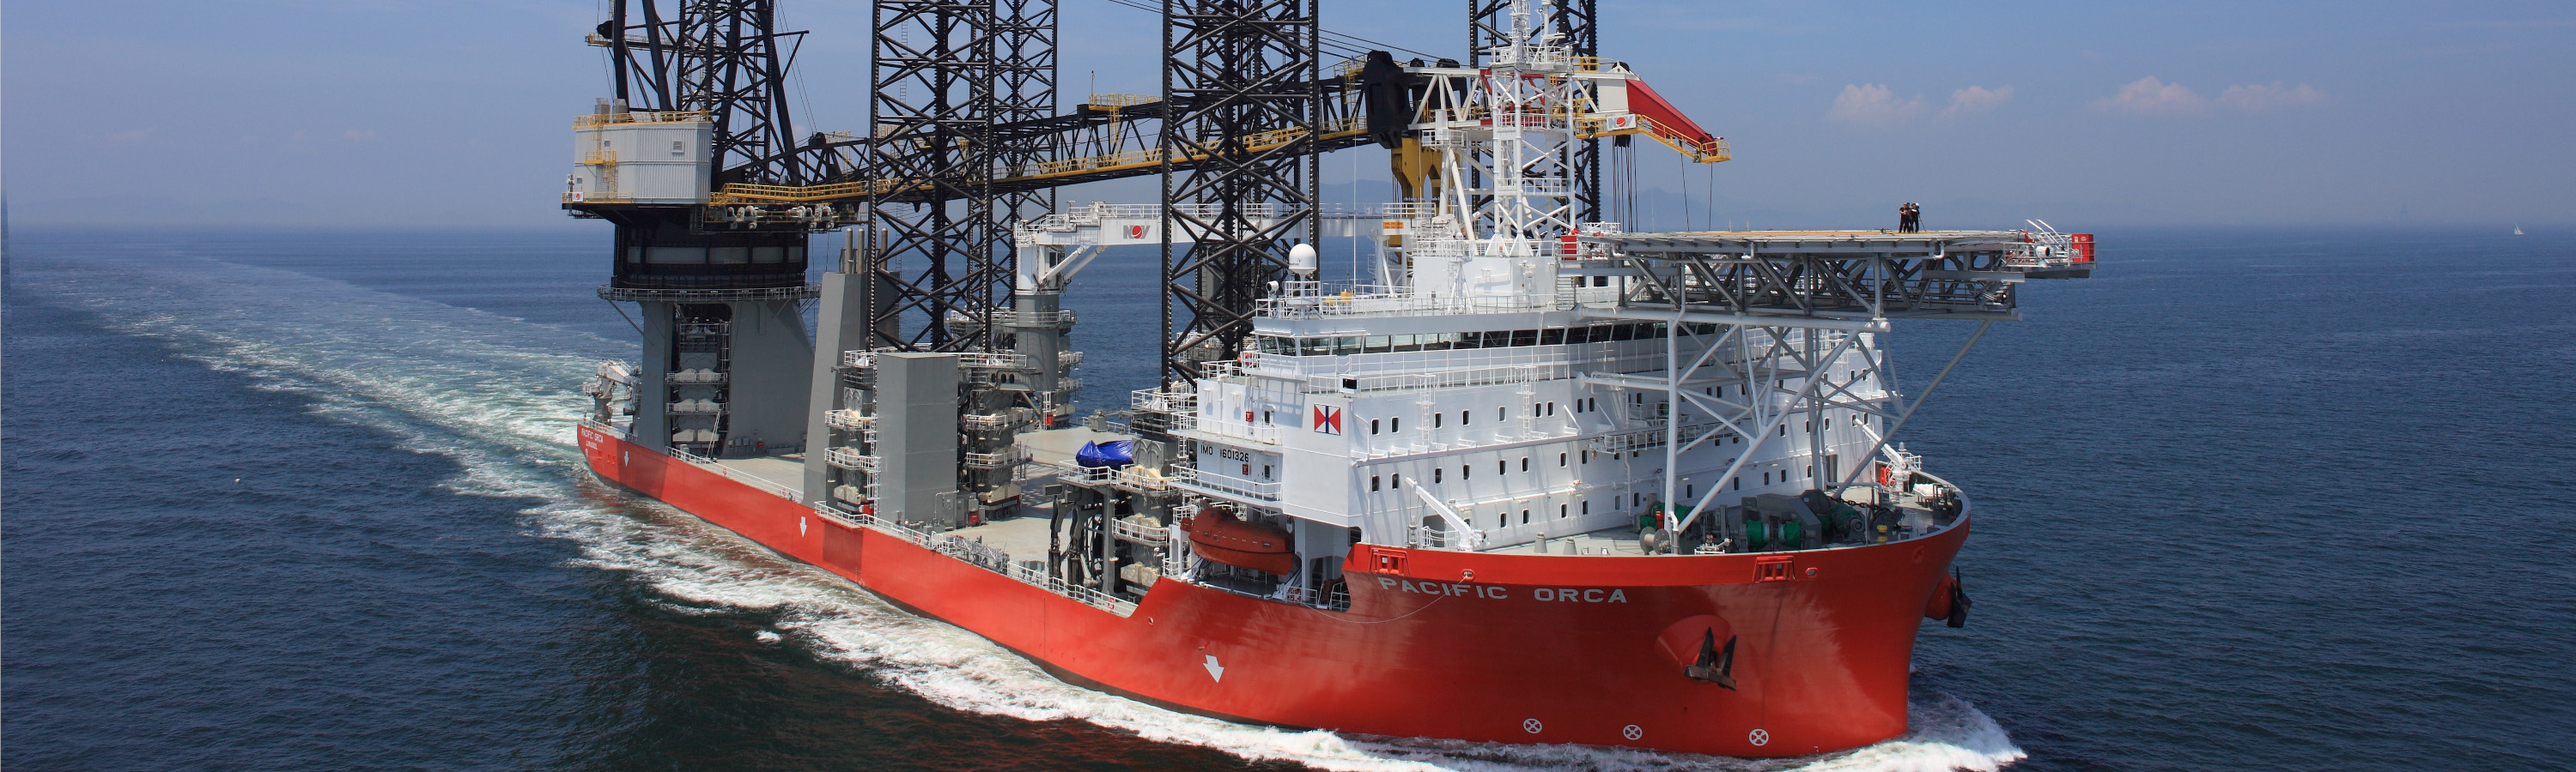
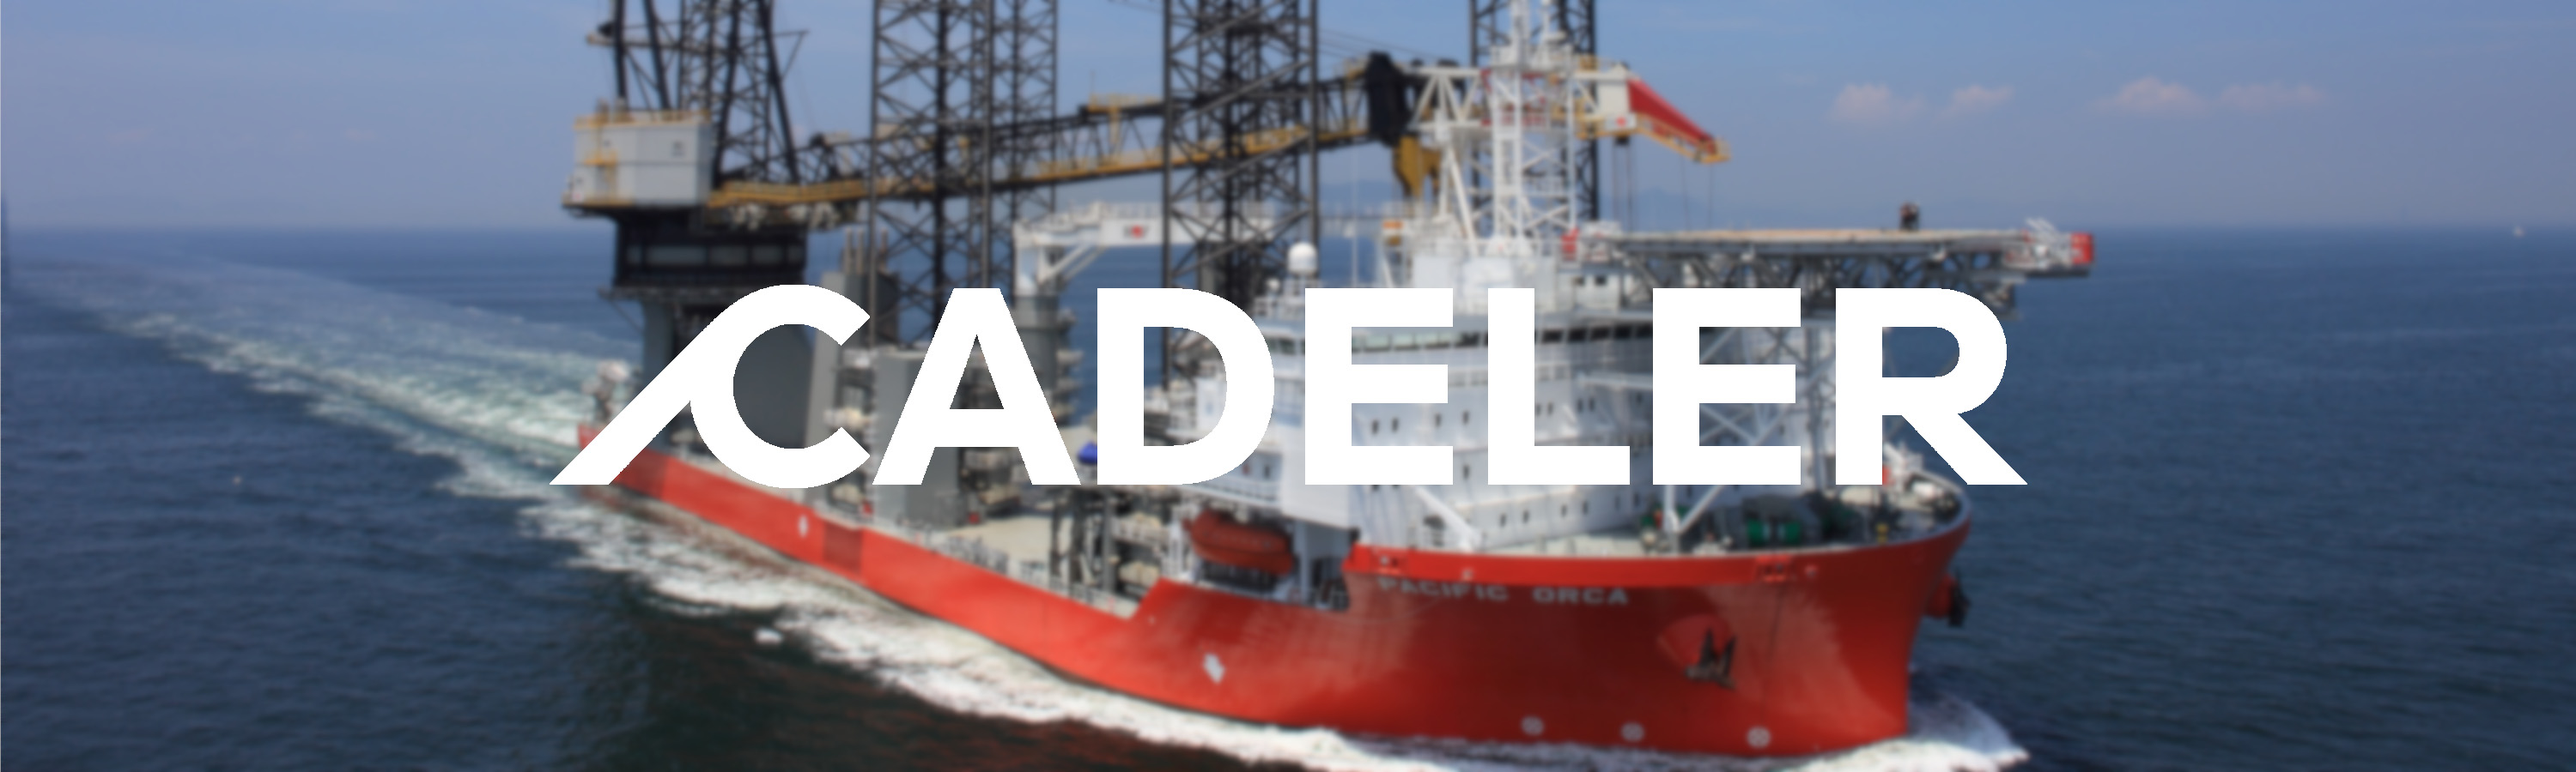
change front image

diff --git a/content/projects/adverse_weather_planning/index.md b/content/projects/adverse_weather_planning/index.md
@@ -12,7 +12,7 @@ series: ""
 weight: 0
 
 featuredImage: "pacific-orca-sept-2012-large_blurred.jpg"
-featuredImagePreview: "preview_with_logo5.png"
+# featuredImagePreview: "preview_with_logo5.png"
 # featuredImagePreview: "preview.png"
 # 800x240 rendered, dus moet width x 0.3 is height
 
